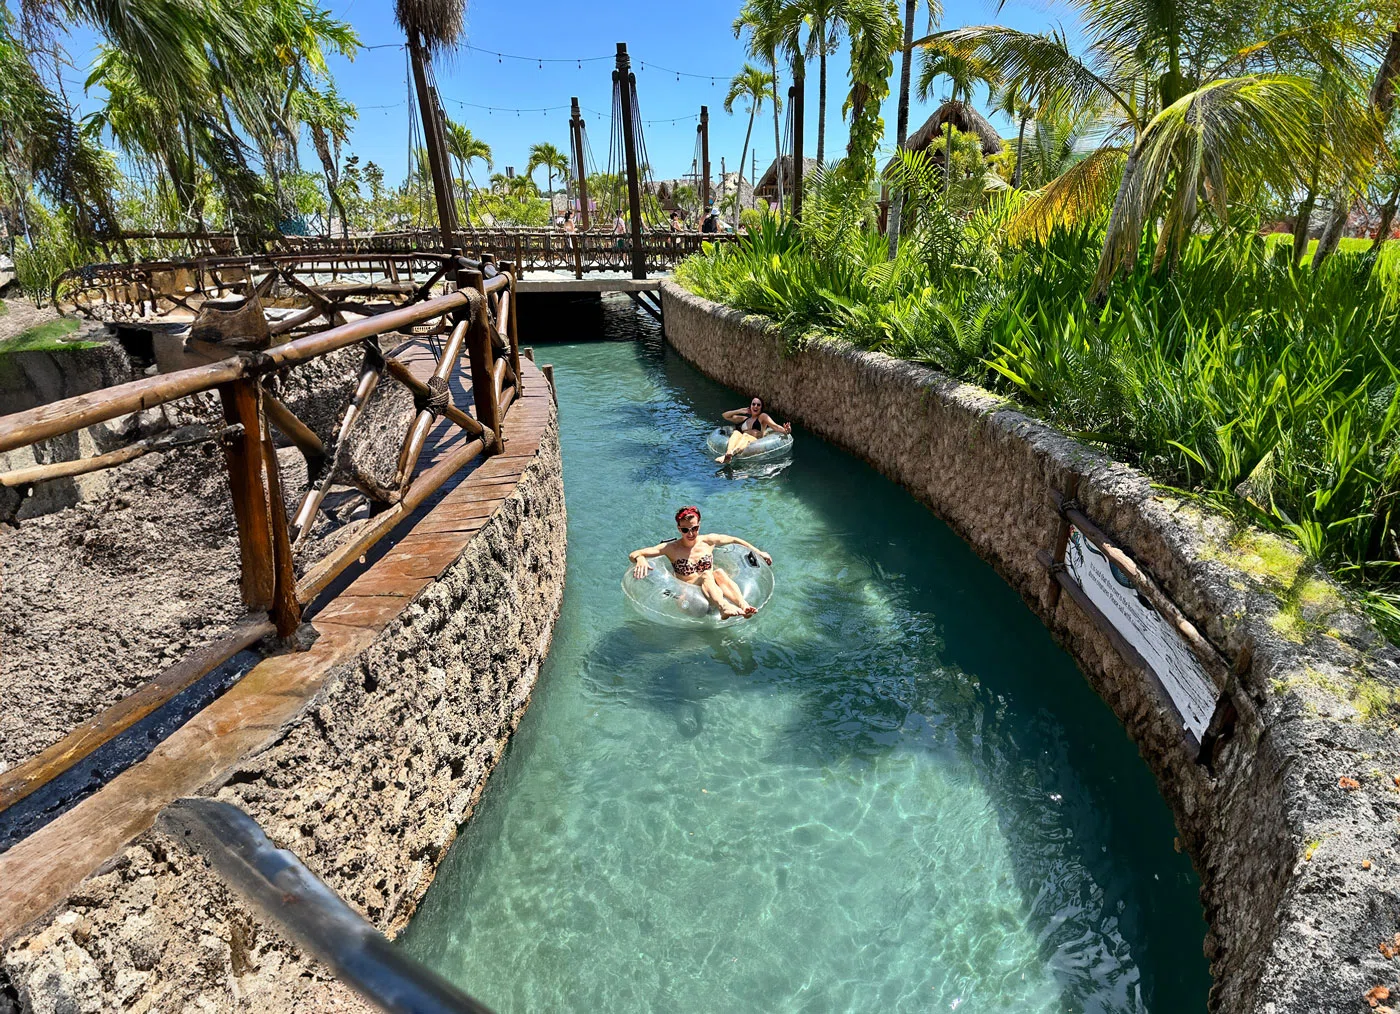
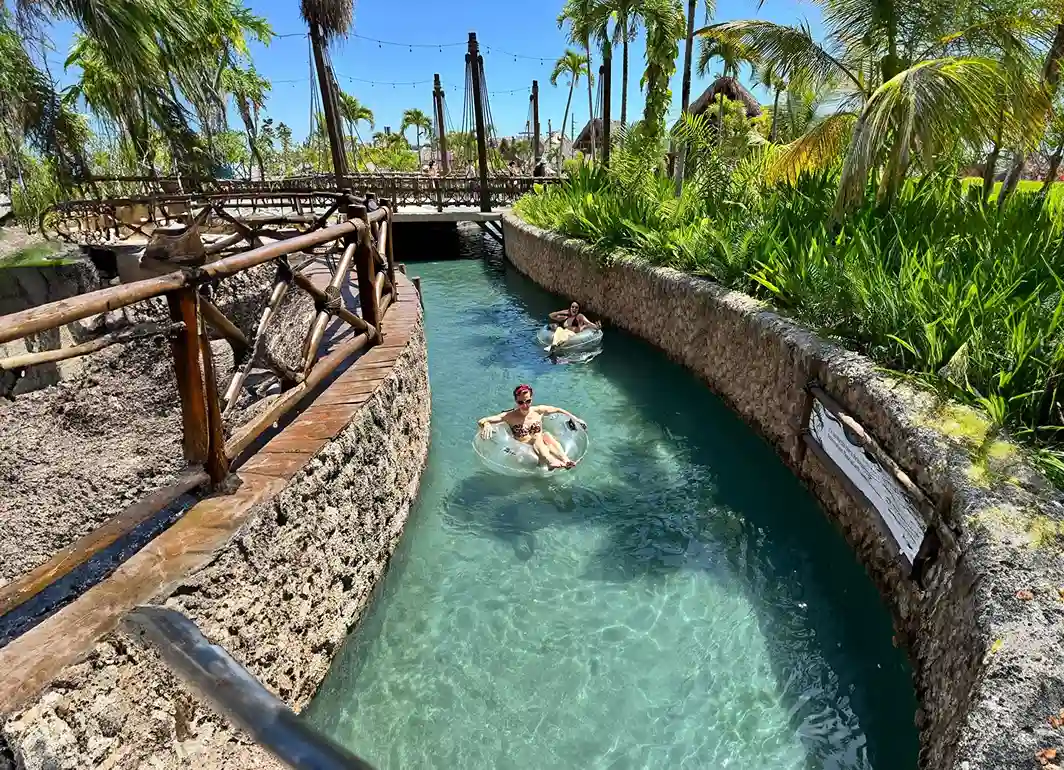
Rendimiento: lax en scroll, preload fuentes, preconnect TypeKit, carouseles comprimidos

diff --git a/include/js.php b/include/js.php
@@ -18,7 +18,16 @@
 <script src="assets/js/vendor/magnetic-effect.min.js?v=2.0" defer></script>
 <script src='assets/js/vendor/gsap.min.js' defer></script>
 <script src="assets/js/vendor/aos.min.js" defer></script>
-<script src="assets/js/vendor/lax.min.js" defer></script>
+<script>
+    window.addEventListener('scroll', function () {
+        if (!window.laxLoaded) {
+            window.laxLoaded = true;
+            var script = document.createElement('script');
+            script.src = 'assets/js/vendor/lax.min.js';
+            document.body.appendChild(script);
+        }
+    }, { passive: true });
+</script>
 <script src="assets/js/vendor/cursor-effect.min.js" defer></script>
 <script src="https://cdn.jsdelivr.net/npm/@popperjs/core@2.9.2/dist/umd/popper.min.js" defer></script>
 

diff --git a/include/head.php b/include/head.php
@@ -18,6 +18,8 @@
 <!-- Preconnect -->
 <link rel="preconnect" href="https://aframe.io" />
 <link rel="preconnect" href="https://www.googletagmanager.com" />
+<link rel="preconnect" href="https://p.typekit.net" crossorigin />
+<link rel="preconnect" href="https://use.typekit.net" crossorigin />
 <link rel="preload" as="video" href="assets/videos/TainoBay_compri.mp4" type="video/mp4">
 
 <!-- Vendor Style Sheet -->
